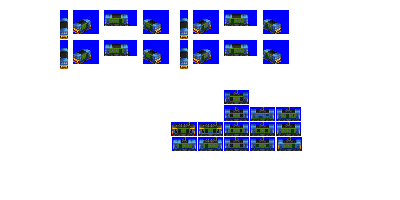
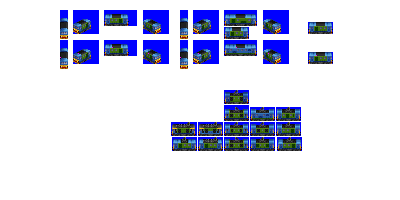
Change: WIP on restructuring low end electric locomotives

Changed region(s): [[0.54, 0.06, 0.66, 0.3], [0.75, 0.24, 0.84, 0.33], [0.75, 0.09, 0.84, 0.18]]

diff --git a/src/rosters/pony.py b/src/rosters/pony.py
@@ -5,6 +5,7 @@ from vehicles import athena
 from vehicles import (
     auto_coach_pony_gen_2,
 )  # no further generations as autoreplace can't handle mixed cargo articulated consists
+from vehicles import argus
 from vehicles import avenger
 from vehicles import bean_feast
 from vehicles import blackthorn
@@ -106,6 +107,7 @@ from vehicles import snowplough_pony_gen_2
 from vehicles import spinner
 from vehicles import stentor
 from vehicles import stoat
+from vehicles import stoat2
 from vehicles import streamer
 from vehicles import strongbow
 from vehicles import sunshine_coast
@@ -306,15 +308,15 @@ def main(disabled=False):
             lark,
             merrylegs,
             proper_job,
-            stoat,
-            pinhorse,
+            kelpie,
+            griffon,
             shoebox,
             super_shoebox,
             ultra_shoebox,
+            pinhorse,
+            argus,
             # express
             reliance,
-            kelpie,
-            griffon,
             spinner,
             carrack,
             tencendur,
@@ -355,6 +357,8 @@ def main(disabled=False):
             little_bear,
             captain_steel,
             goliath,
+            stoat,
+            stoat2,
             # freight
             hercules,
             braf,

diff --git a/src/vehicles/shoebox.py b/src/vehicles/shoebox.py
@@ -7,23 +7,24 @@ def main(roster_id):
         id="shoebox",
         base_numeric_id=280,
         name="Shoebox",
-        role="branch_express",
-        role_child_branch_num=1,
-        power=950,
-        power_by_railtype={"RAIL": 950, "ELRL": 1800},
+        role="express",
+        role_child_branch_num=-1,
+        power=950, # yes it's quite low power initially eh
+        power_by_railtype={"RAIL": 950, "ELRL": 2300},
         random_reverse=True,
         pantograph_type="z-shaped-single",
         gen=4,
-        sprites_complete=True,
+        intro_date_offset=5,  # introduce later than gen epoch by design
+        sprites_complete=False,
     )
 
     consist.add_unit(
-        type=ElectroDieselEngineUnit, weight=67, vehicle_length=6, spriterow_num=0
+        type=ElectroDieselEngineUnit, weight=67, vehicle_length=8, spriterow_num=0
     )
 
     consist.description = (
         """This one can go on electric or diesel. Madder than a box of frogs."""
     )
-    consist.foamer_facts = """BR Class 71/74, Class 73"""
+    consist.foamer_facts = """BR Class 70, Class 73"""
 
     return consist

diff --git a/src/vehicles/super_shoebox.py b/src/vehicles/super_shoebox.py
@@ -7,18 +7,18 @@ def main(roster_id):
         id="super_shoebox",
         base_numeric_id=880,
         name="Super Shoebox",
-        role="branch_express",
-        role_child_branch_num=1,
-        power=1200,
-        power_by_railtype={"RAIL": 1200, "ELRL": 2200},
+        role="express",
+        role_child_branch_num=-1,
+        power=1250,
+        power_by_railtype={"RAIL": 1250, "ELRL": 2600},
         random_reverse=True,
         pantograph_type="z-shaped-single",
         gen=5,
-        sprites_complete=True,
+        sprites_complete=False,
     )
 
     consist.add_unit(
-        type=ElectroDieselEngineUnit, weight=72, vehicle_length=6, spriterow_num=0
+        type=ElectroDieselEngineUnit, weight=72, vehicle_length=8, spriterow_num=0
     )
 
     consist.description = """It's a bigger Shoebox. Well not bigger. But we've got more power in it. Right nice new paint too."""

diff --git a/src/vehicles/ultra_shoebox.py b/src/vehicles/ultra_shoebox.py
@@ -7,18 +7,18 @@ def main(roster_id):
         id="ultra_shoebox",
         base_numeric_id=2170,
         name="Ultra Shoebox",
-        role="branch_express",
-        role_child_branch_num=1,
+        role="express",
+        role_child_branch_num=-1,
         power=1650,
-        power_by_railtype={"RAIL": 1650, "ELRL": 2600},
+        power_by_railtype={"RAIL": 1650, "ELRL": 2800},
         random_reverse=True,
         pantograph_type="z-shaped-single",
         gen=6,
-        sprites_complete=True,
+        sprites_complete=False,
     )
 
     consist.add_unit(
-        type=ElectroDieselEngineUnit, weight=78, vehicle_length=6, spriterow_num=0
+        type=ElectroDieselEngineUnit, weight=78, vehicle_length=8, spriterow_num=0
     )
 
     consist.description = """Top to bottom, it's a old Shoebox made new. Right powerful small engines we have thse days."""

diff --git a/src/vehicles/stoat2.py b/src/vehicles/stoat2.py
@@ -4,19 +4,18 @@ from train import EngineConsist, ElectricEngineUnit
 def main(roster_id):
     consist = EngineConsist(
         roster_id=roster_id,
-        id="stoat",
-        base_numeric_id=3340,
-        name="Stoat",
+        id="stoat2",
+        base_numeric_id=5470,
+        name="Stoat 2",
         role="branch_freight",
         role_child_branch_num=2,
-        power=1200,
-        speed=60, # continues a long way into gen 3, so go faster
+        power=1600,
         random_reverse=True,
         pantograph_type="diamond-single",
-        gen=2,
+        gen=4,
         intro_date_offset=6,  # introduce later than gen epoch by design
         fixed_run_cost_points=105,  # substantial cost bonus so it can make money
-        sprites_complete=True,
+        sprites_complete=False,
     )
 
     consist.add_unit(

diff --git a/src/train.py b/src/train.py
@@ -293,7 +293,7 @@ class Consist(object):
         role_to_role_groups_mapping = {
             "express_core": {"express": [1], "heavy_express": [1]},
             "express_non_core": {
-                "branch_express": [1, 2],
+                "branch_express": [1, 2, -2],
                 "express": [2],
                 "heavy_express": [2, 3, 4],
                 "luxury_pax_railcar": [-1],
@@ -305,7 +305,7 @@ class Consist(object):
             },
             "freight_core": {"freight": [1], "heavy_freight": [1]},
             "freight_non_core": {
-                "branch_freight": [1],
+                "branch_freight": [1, 2],
                 "freight": [2],
                 "heavy_freight": [2, 3, 4],
             },

diff --git a/src/vehicles/argus.py b/src/vehicles/argus.py
@@ -1,0 +1,28 @@
+from train import EngineConsist, ElectricEngineUnit
+
+
+def main(roster_id):
+    consist = EngineConsist(
+        roster_id=roster_id,
+        id="argus",
+        base_numeric_id=5400,
+        name="Argus",
+        role="branch_express",
+        role_child_branch_num=-2,
+        power=1400, # yes it's quite low power eh
+        random_reverse=True,
+        pantograph_type="z-shaped-single",
+        gen=3,
+        sprites_complete=False,
+    )
+
+    consist.add_unit(
+        type=ElectricEngineUnit, weight=67, vehicle_length=6, spriterow_num=0
+    )
+
+    consist.description = (
+        """Zoooom."""
+    )
+    consist.foamer_facts = """BR Class 71"""
+
+    return consist

diff --git a/src/vehicles/pinhorse.py b/src/vehicles/pinhorse.py
@@ -8,11 +8,11 @@ def main(roster_id):
         base_numeric_id=3250,
         name="Pinhorse",
         role="branch_express",
-        role_child_branch_num=2,
-        power=1100,
+        role_child_branch_num=-2,
+        power=800,
         random_reverse=True,
         pantograph_type="diamond-single",
-        gen=3,
+        gen=2,
         replacement_consist_id="shoebox",  # this line ends with Shoebox and is merged with branch_express 2
         intro_date_offset=5,  # introduce later than gen epoch by design
         sprites_complete=True,

diff --git a/src/vehicles/griffon.py b/src/vehicles/griffon.py
@@ -7,8 +7,8 @@ def main(roster_id):
         id="griffon",
         base_numeric_id=2840,
         name="Griffon",  # Griffon and Shredder names are wrong way round, but seems to suit the shapes so eh, leave it :)
-        role="express",
-        role_child_branch_num=-1,
+        role="branch_express",
+        role_child_branch_num=1,
         power=1650,
         random_reverse=True,
         fixed_run_cost_points=100,  # give a bonus so this can be a genuine mixed-traffic engine

diff --git a/src/vehicles/kelpie.py b/src/vehicles/kelpie.py
@@ -7,8 +7,8 @@ def main(roster_id):
         id="kelpie",
         base_numeric_id=900,
         name="Kelpie",
-        role="express",
-        role_child_branch_num=-1,
+        role="branch_express",
+        role_child_branch_num=1,
         power=1450,
         random_reverse=True,
         fixed_run_cost_points=140,  # substantial cost bonus as a mixed traffic engine

diff --git a/src/vehicles/flindermouse.py b/src/vehicles/flindermouse.py
@@ -10,7 +10,8 @@ def main(roster_id):
         role="heavy_freight",
         role_child_branch_num=4,
         power=2500,
-        gen=3,
+        speed=60, # continues a long way into gen 3, so go faster
+        gen=2,
         pantograph_type="diamond-double",
         intro_date_offset=-23,  # introduce earlier than gen epoch by design
         sprites_complete=True,
